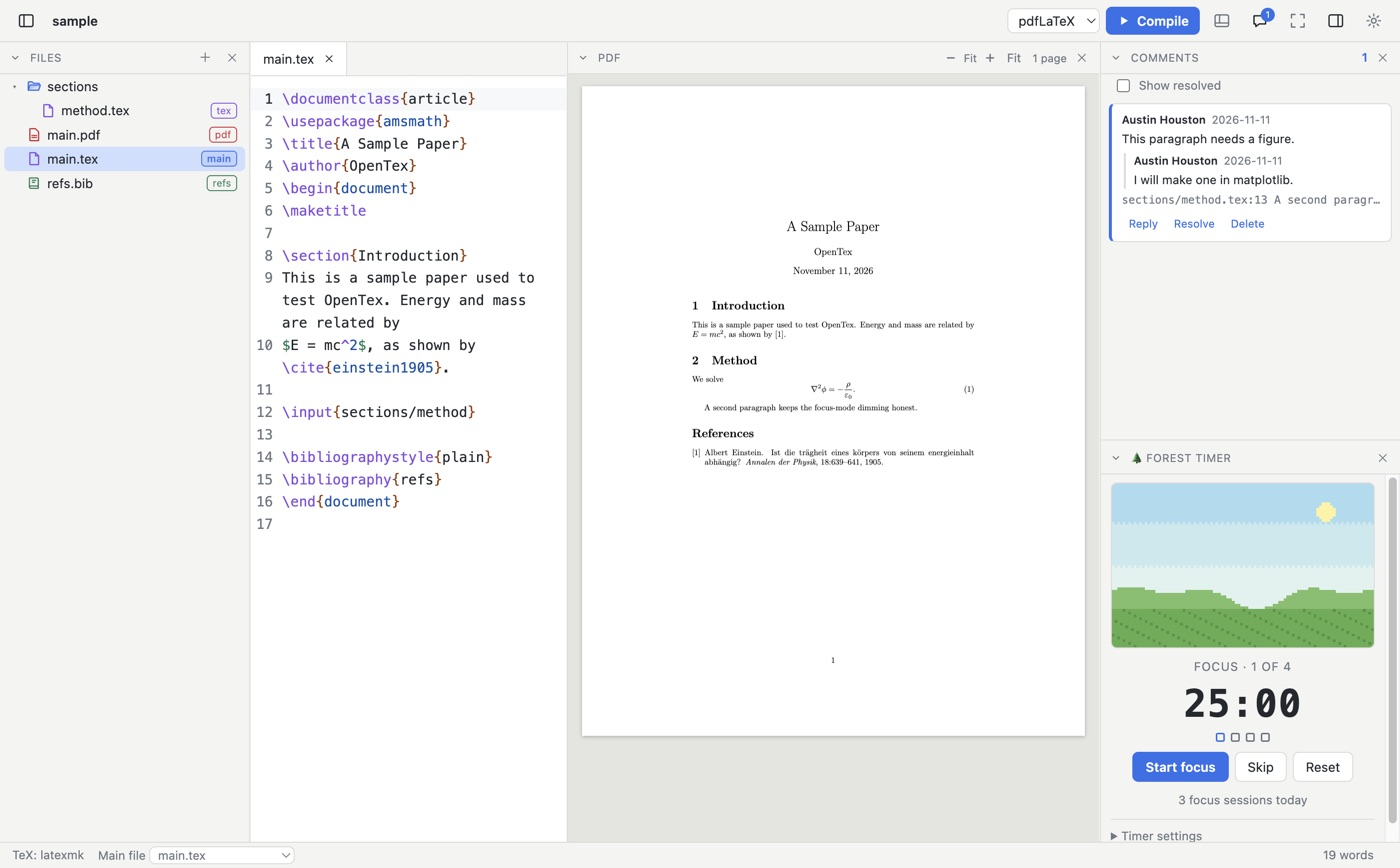
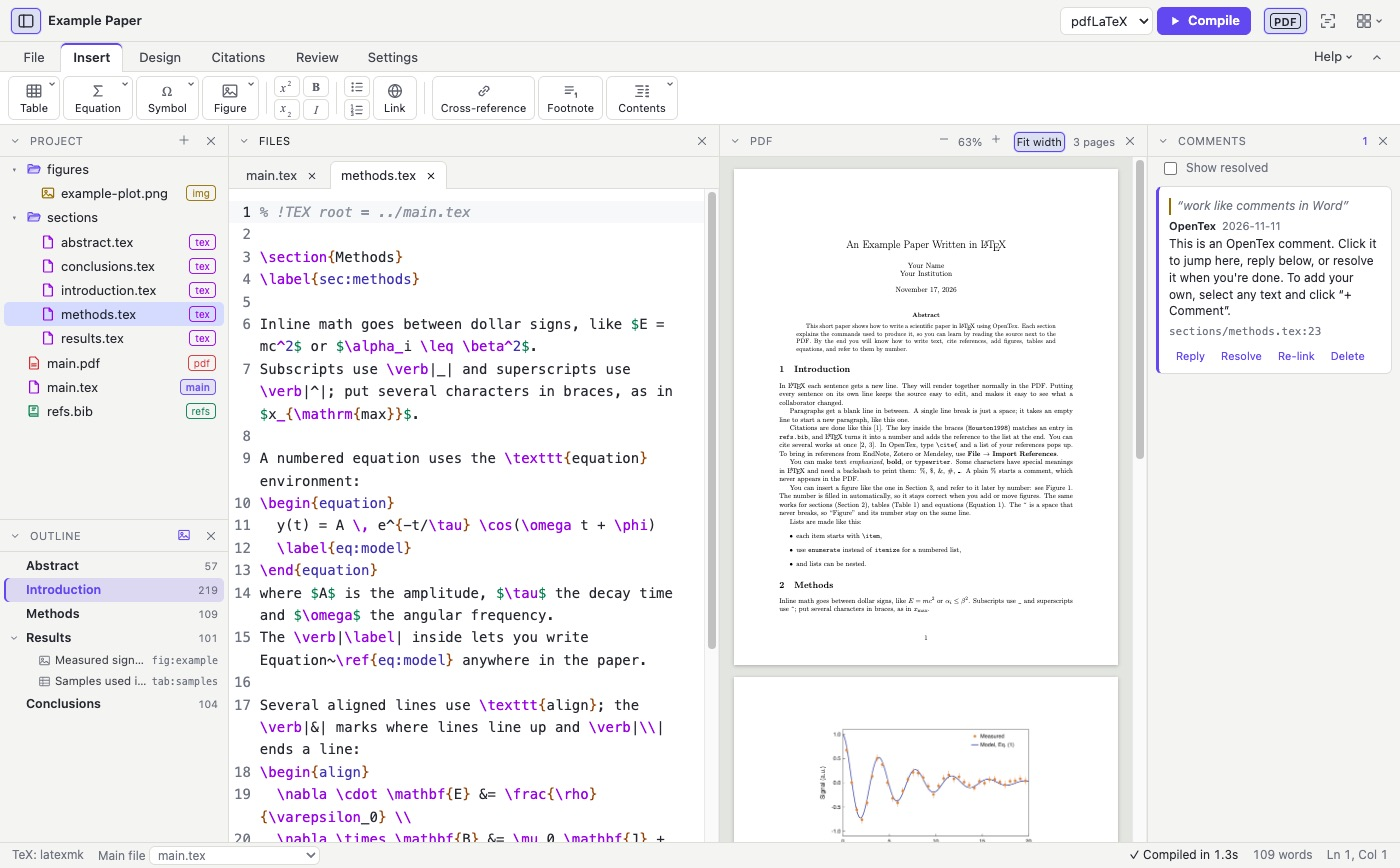
Update the download site for v0.5.0
New screenshots of the ribbon, comments, PDF and Design presets; the
ribbon and Design looks in the copy; focus mode on Cmd/Ctrl+Shift+D;
plugins turned on in Settings -> Plugins; a version line linking to the
release notes; a Report a bug link; darker muted and code-comment text.

diff --git a/docs/index.html b/docs/index.html
@@ -45,12 +45,13 @@
               <span>Download OpenTex</span>
             </a>
             <div class="alt dl-alt"></div>
+            <p class="cta-version">Version 0.5.0 &middot; <a href="https://github.com/AustinHouston/OpenTex/releases/tag/v0.5.0">What’s new</a></p>
             <p class="cta-note">No administrator rights needed. No TeX yet? OpenTex offers to install a small one (TinyTeX) for you on first launch.</p>
           </div>
 
           <div class="window">
             <div class="chrome" aria-hidden="true"><i></i><i></i><i></i></div>
-            <img src="img/app.jpg" width="1400" height="868" alt="The OpenTex window: file tree, LaTeX source, compiled PDF, a comment thread and the Forest Timer." />
+            <img src="img/app.jpg" width="1400" height="868" alt="The OpenTex window: the ribbon on its Insert tab, file tree and outline, LaTeX source, the compiled PDF and a comment." />
           </div>
         </div>
       </section>
@@ -87,7 +88,7 @@
               <span class="why-icon"><svg viewBox="0 0 24 24" aria-hidden="true"><rect x="3.5" y="3.5" width="7" height="7" rx="1.2"/><rect x="13.5" y="3.5" width="7" height="7" rx="1.2"/><rect x="3.5" y="13.5" width="7" height="7" rx="1.2"/><path d="M17 13.5v7M13.5 17h7"/></svg></span>
               <h3>Adaptable</h3>
               <p>Movable panels, expandable plugins.</p>
-              <p class="sub">Drag panels where you want them; add plugins as new panels.</p>
+              <p class="sub">Drag panels where you want them; turn plugins on in Settings to add new panels.</p>
             </div>
             <div class="why-item">
               <span class="why-icon"><svg viewBox="0 0 24 24" aria-hidden="true"><path d="M6 2.5h8l4 4V21a.5.5 0 0 1-.5.5h-11A.5.5 0 0 1 6 21V3a.5.5 0 0 1 .5-.5z"/><path d="M14 2.5V7h4"/><path d="M9 11.5l1.2 5 1.8-3.6 1.8 3.6 1.2-5"/></svg></span>
@@ -171,28 +172,29 @@
               <p>Select text in the editor or in the PDF, click <b>+&nbsp;Comment</b>, reply, resolve.</p>
               <p class="muted">Your .tex stays clean: comments are kept in a small file in the project folder, so they travel with it over email, Dropbox or git, and never appear in the PDF. If a collaborator edits the text in another editor, OpenTex finds each comment’s place again, and anything it can’t place gets a one-click Re-link.</p>
             </div>
-            <div class="shot"><img src="img/comments.jpg" width="1400" height="807" loading="lazy" alt="Comment lines highlighted in the source and the matching comment threads in the side panel, with Reply, Resolve and Delete." /></div>
+            <div class="shot"><img src="img/comments.jpg" width="1400" height="868" loading="lazy" alt="Commented text highlighted in the source, with the comment in the Comments panel: Reply, Resolve, Re-link and Delete." /></div>
           </div>
 
           <!-- SyncTeX -->
           <div class="row flip">
             <div class="text">
               <span class="tag">Navigate</span>
-              <h3>SyncTeX: source and PDF, linked</h3>
+              <h3>Source and PDF, linked</h3>
               <p><b>Double-click</b> anywhere in the PDF to jump to that line of source.</p>
               <p>Press <kbd>Ctrl</kbd>/<kbd>⌘</kbd>&nbsp;+&nbsp;<kbd>J</kbd> to jump from the source to the matching spot in the PDF.</p>
             </div>
-            <div class="shot"><img src="img/synctex.jpg" width="1600" height="992" loading="lazy" alt="LaTeX source on the left and the compiled PDF on the right." /></div>
+            <div class="shot"><img src="img/synctex.jpg" width="1400" height="868" loading="lazy" alt="LaTeX source beside the compiled PDF, with the ribbon above." /></div>
           </div>
 
           <!-- Layout -->
           <div class="row">
             <div class="text">
               <span class="tag">Adapt</span>
-              <h3>Panels where you want them</h3>
-              <p>Move panels around, stack them, collapse them or hide them. Here the Forest Timer sits under Files, the PDF is hidden and Comments is collapsed to a strip.</p>
+              <h3>A ribbon like Word’s, panels where you want them</h3>
+              <p>Five tabs, <b>File</b>, <b>Insert</b>, <b>Design</b>, <b>Citations</b> and <b>Review</b>, plus <b>Settings</b>. <b>Design</b> switches the whole paper to an Article, Nature-, Science-, Physical Review- or IEEE-style look, or a double-spaced review draft, in one click, without touching your text.</p>
+              <p class="muted">Move panels around, stack them, collapse them or hide them. Here the Project list is collapsed and Comments sits beside the PDF. Click the open tab to fold the ribbon away.</p>
             </div>
-            <div class="shot"><img src="img/layout.jpg" width="1400" height="868" loading="lazy" alt="A rearranged OpenTex layout: Forest Timer below the file list, a wide editor and a collapsed Comments panel." /></div>
+            <div class="shot"><img src="img/layout.jpg" width="1400" height="868" loading="lazy" alt="The ribbon on its Design tab with journal presets, a collapsed Project panel, the outline, source, PDF and Comments." /></div>
           </div>
 
           <!-- Themes -->
@@ -224,14 +226,14 @@
             <div class="text">
               <span class="tag">Focus</span>
               <h3>Just you and the text</h3>
-              <p>Focus mode (<kbd>Ctrl</kbd>/<kbd>⌘</kbd>&nbsp;+&nbsp;<kbd>Shift</kbd>&nbsp;+&nbsp;<kbd>F</kbd>) hides everything but the text and dims all but the current paragraph.</p>
+              <p>Focus mode (<kbd>Ctrl</kbd>/<kbd>⌘</kbd>&nbsp;+&nbsp;<kbd>Shift</kbd>&nbsp;+&nbsp;<kbd>D</kbd>, <kbd>Esc</kbd> to leave) hides everything but the text and dims all but the current paragraph.</p>
             </div>
             <div class="shot"><img src="img/focus.jpg" width="1200" height="516" loading="lazy" alt="Focus mode in the Dark theme: only the source text, with the next paragraph dimmed." /></div>
           </div>
 
           <div class="sec-head" style="margin-bottom:0">
             <h3>The Forest Timer</h3>
-            <p>A Pomodoro timer plugin whose pixel forest grows while you work, turns to autumn on short breaks and to winter on the long break.</p>
+            <p>A Pomodoro timer plugin whose pixel forest grows while you work, turns to autumn on short breaks and to winter on the long break. Also built in: Writing Garden, Lava Lamp, Starship and Readability. Turn any of them on in <b>Settings&nbsp;→&nbsp;Plugins</b>.</p>
           </div>
           <div class="forest">
             <figure><img src="img/forest-focus.png" width="600" height="1000" loading="lazy" alt="Forest Timer during focus: a green summer meadow." /><figcaption>Focus &middot; summer</figcaption></figure>
@@ -311,6 +313,7 @@
         <nav aria-label="Project links">
           <a href="https://github.com/AustinHouston/OpenTex">Source code and documentation on GitHub</a>
           <a href="https://github.com/AustinHouston/OpenTex/releases">All versions</a>
+          <a href="https://github.com/AustinHouston/OpenTex/issues/new">Report a bug</a>
           <a href="https://github.com/AustinHouston/OpenTex/blob/main/LICENSE">License: AGPL-3.0</a>
         </nav>
       </div>

diff --git a/docs/style.css b/docs/style.css
@@ -5,7 +5,7 @@
   --panel-alt: #e5d9c1;
   --border: #d8cbb0;
   --text: #433422;
-  --muted: #7d6a4f;
+  --muted: #6c5a40;
   --accent: #a0522d;
   --accent-hover: #8a4424;
   --accent-text: #fff8ee;
@@ -15,7 +15,7 @@
   --syn-cmd: #8b3a62;
   --syn-math: #3d6b3a;
   --syn-env: #2a5d8a;
-  --syn-comment: #a8957a;
+  --syn-comment: #85714f;
   --syn-bracket: #a0522d;
   --serif: 'EB Garamond', 'Iowan Old Style', 'Palatino Linotype', Palatino, Georgia, serif;
   --sans: 'Source Sans 3', system-ui, -apple-system, 'Segoe UI', sans-serif;
@@ -39,7 +39,7 @@
     --syn-cmd: #d58fb4;
     --syn-math: #9ccc8f;
     --syn-env: #8fb6e0;
-    --syn-comment: #8c7c62;
+    --syn-comment: #a8977a;
     --syn-bracket: #d98a5c;
   }
 }
@@ -100,6 +100,8 @@ h3 { font-size: clamp(26px, 3.4vw, 32px); }
 .btn:hover { background: var(--accent-hover); color: var(--accent-text); transform: translateY(-1px); }
 .btn svg { width: 20px; height: 20px; flex: none; }
 .alt { font-size: 15px; color: var(--muted); }
+.cta-version { font-size: 14px; color: var(--muted); margin: 6px 0 0; }
+.cta-version a { color: inherit; text-underline-offset: 3px; }
 .cta-note { font-size: 15px; color: var(--muted); margin: 4px 0 0; max-width: 34em; }
 
 .window {
